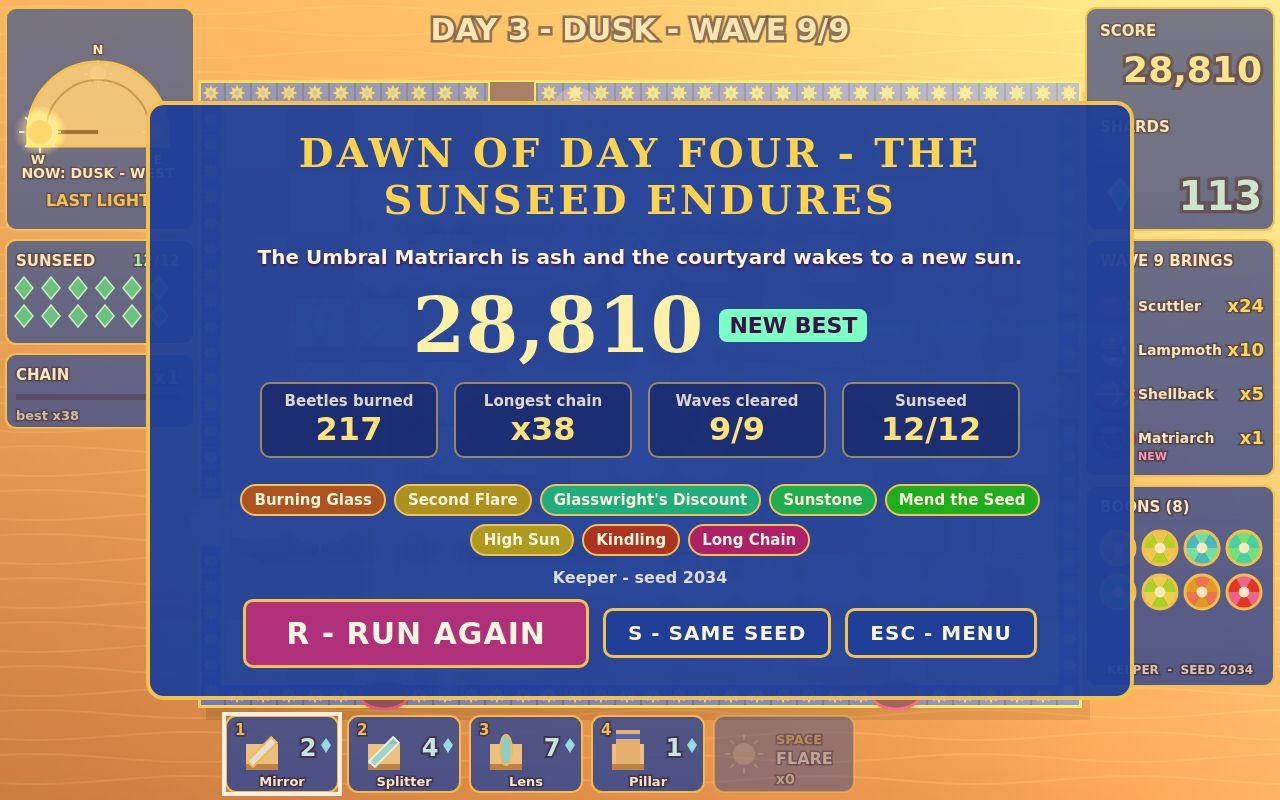
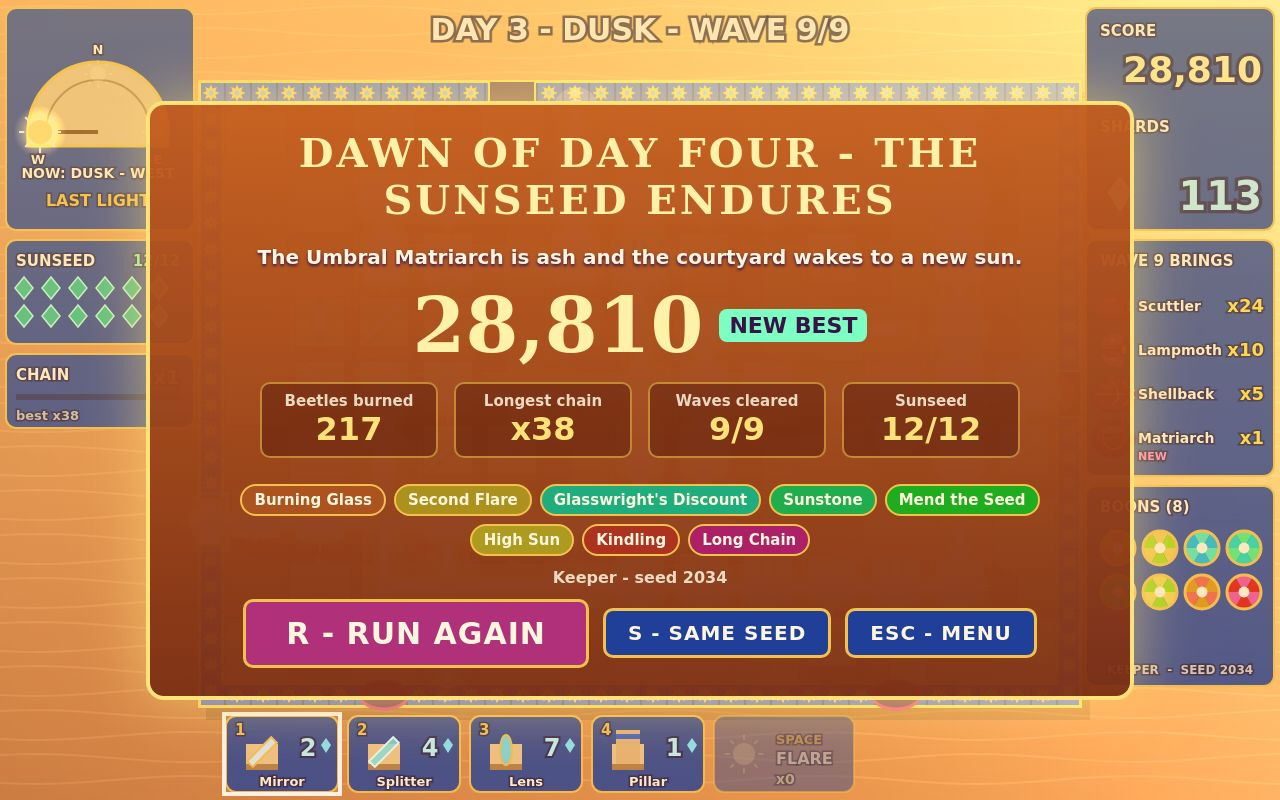
Warm sunrise results panel (violet on defeat); tools/check-shot-truth.mjs and tools/measure-shots.mjs; restaged shots pass the look gate

diff --git a/game/style.css b/game/style.css
@@ -59,7 +59,11 @@ button.big:hover { background: #cf3f93; }
 /* Results */
 #results-screen { background: linear-gradient(rgba(255, 200, 90, 0.35), rgba(255, 150, 60, 0.15)); }
 #results-screen.lost { background: linear-gradient(rgba(60, 20, 70, 0.45), rgba(60, 20, 70, 0.25)); }
-.results h2 { font-size: 40px; max-width: 900px; }
+.sheet.results { background: linear-gradient(rgba(196, 92, 30, 0.95), rgba(122, 46, 20, 0.95)); border-color: #ffe27a; box-shadow: 0 0 60px rgba(255, 220, 120, 0.6); }
+.lost .sheet.results { background: linear-gradient(rgba(74, 35, 80, 0.95), rgba(40, 18, 60, 0.95)); border-color: #b0307a; box-shadow: none; }
+.results h2 { font-size: 40px; max-width: 900px; color: #fff2a8; }
+.results .stats div { background: rgba(80, 20, 10, 0.45); }
+.lost .results .stats div { background: rgba(20, 10, 40, 0.5); }
 .lost .results h2 { color: #ff9ac4; }
 .score { font: 900 76px Georgia, serif; color: #fff2a8; display: flex; align-items: center; gap: 16px; }
 .score em { font: 900 22px system-ui, sans-serif; font-style: normal; color: #3b1247; background: #7dffc4; border-radius: 8px; padding: 4px 10px; }
